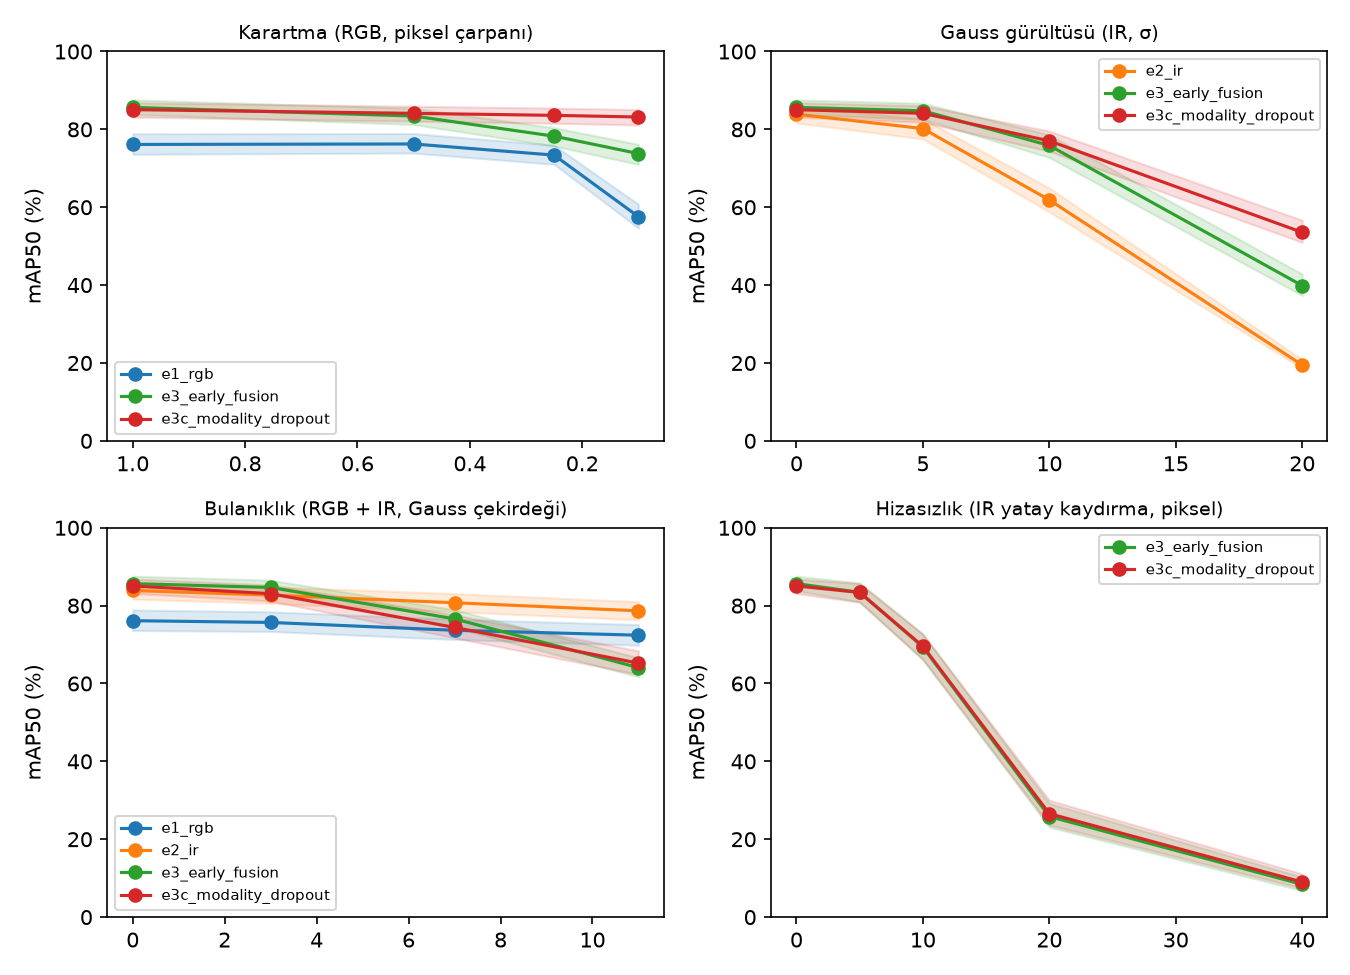
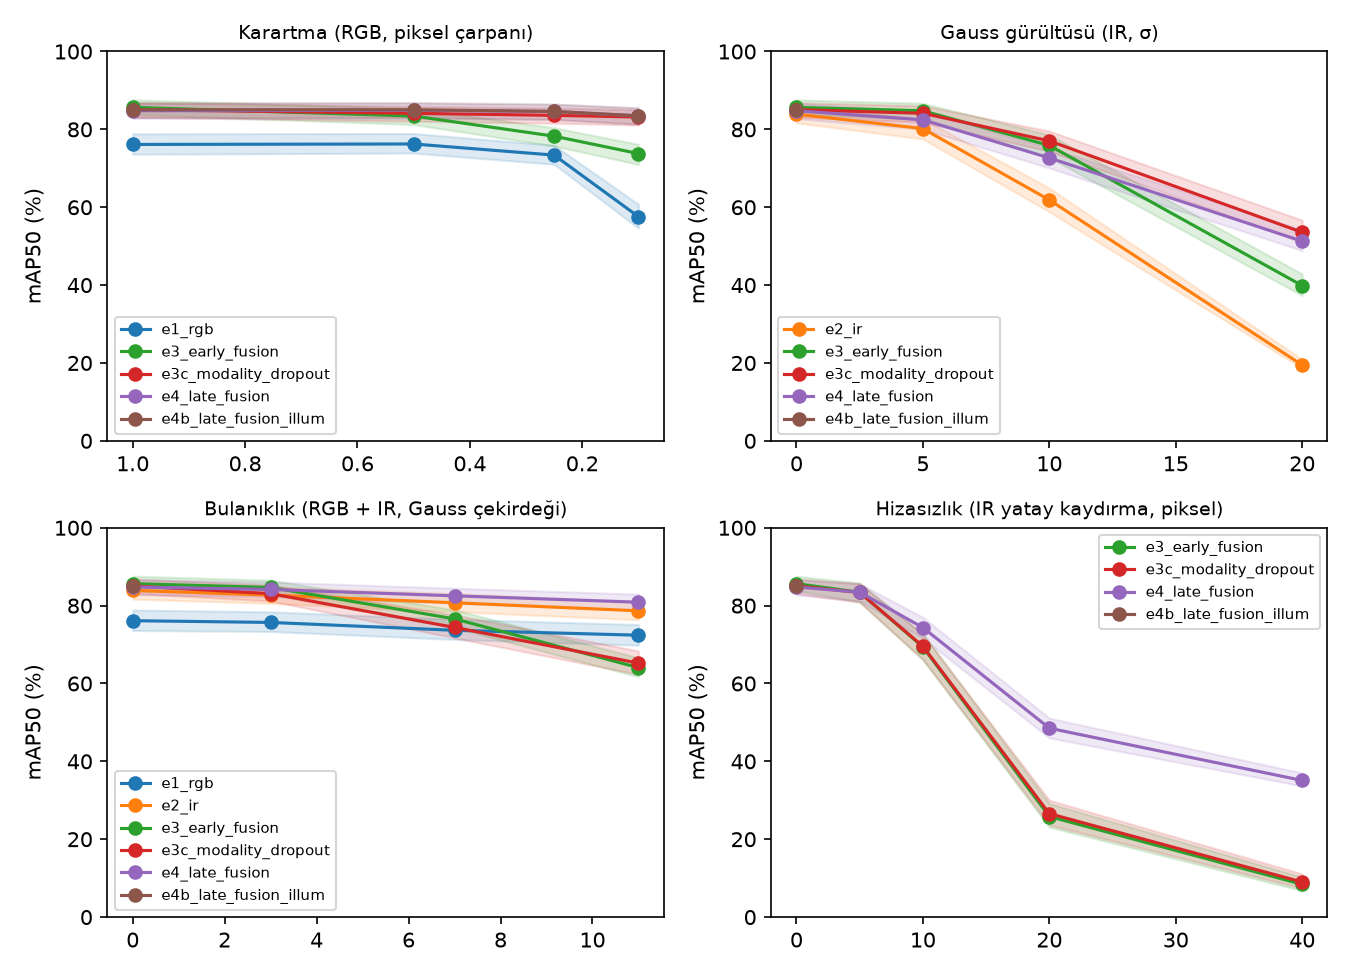
docs: regenerate results with E3c, E4, E4b and E7

diff --git a/docs/robustness.md b/docs/robustness.md
@@ -7,47 +7,47 @@
 
 ## Karartma (RGB, piksel çarpanı)
 
-| Şiddet | e1_rgb | e2_ir | e3_early_fusion | e3c_modality_dropout |
-|---|---|---|---|---|
-| 1 (temiz) | 76.1 [73.6, 78.9] | 83.9 [81.7, 85.9] | 85.7 [83.8, 87.6] | 85.1 [83.1, 86.9] |
-| 0.5 | 76.2 [73.9, 78.9] | uygulanmaz | 83.4 [81.2, 85.4] | 84.1 [82.1, 85.9] |
-| 0.25 | 73.4 [71.0, 75.9] | uygulanmaz | 78.2 [75.7, 80.4] | 83.6 [81.6, 85.5] |
-| 0.1 | 57.6 [54.6, 60.8] | uygulanmaz | 73.8 [71.0, 76.2] | 83.2 [81.1, 85.1] |
+| Şiddet | e1_rgb | e2_ir | e3_early_fusion | e3c_modality_dropout | e4_late_fusion | e4b_late_fusion_illum |
+|---|---|---|---|---|---|---|
+| 1 (temiz) | 76.1 [73.6, 78.9] | 83.9 [81.7, 85.9] | 85.7 [83.8, 87.6] | 85.1 [83.1, 86.9] | 84.8 [82.8, 86.7] | 85.0 [83.1, 86.9] |
+| 0.5 | 76.2 [73.9, 78.9] | uygulanmaz | 83.4 [81.2, 85.4] | 84.1 [82.1, 85.9] | 84.9 [82.8, 86.8] | 85.0 [83.0, 86.9] |
+| 0.25 | 73.4 [71.0, 75.9] | uygulanmaz | 78.2 [75.7, 80.4] | 83.6 [81.6, 85.5] | 84.6 [82.5, 86.5] | 84.6 [82.5, 86.5] |
+| 0.1 | 57.6 [54.6, 60.8] | uygulanmaz | 73.8 [71.0, 76.2] | 83.2 [81.1, 85.1] | 83.5 [81.3, 85.5] | 83.5 [81.3, 85.5] |
 
 ## Gauss gürültüsü (IR, σ)
 
-| Şiddet | e1_rgb | e2_ir | e3_early_fusion | e3c_modality_dropout |
-|---|---|---|---|---|
-| 0 (temiz) | 76.1 [73.6, 78.9] | 83.9 [81.7, 85.9] | 85.7 [83.8, 87.6] | 85.1 [83.1, 86.9] |
-| 5 | uygulanmaz | 80.2 [77.5, 82.7] | 84.8 [82.6, 86.7] | 84.1 [81.8, 86.1] |
-| 10 | uygulanmaz | 61.9 [58.8, 64.9] | 75.9 [72.8, 78.6] | 77.0 [74.4, 79.6] |
-| 20 | uygulanmaz | 19.5 [18.6, 20.9] | 39.9 [37.3, 42.9] | 53.5 [51.0, 56.7] |
+| Şiddet | e1_rgb | e2_ir | e3_early_fusion | e3c_modality_dropout | e4_late_fusion | e4b_late_fusion_illum |
+|---|---|---|---|---|---|---|
+| 0 (temiz) | 76.1 [73.6, 78.9] | 83.9 [81.7, 85.9] | 85.7 [83.8, 87.6] | 85.1 [83.1, 86.9] | 84.8 [82.8, 86.7] | 85.0 [83.1, 86.9] |
+| 5 | uygulanmaz | 80.2 [77.5, 82.7] | 84.8 [82.6, 86.7] | 84.1 [81.8, 86.1] | 82.4 [80.0, 84.6] | — |
+| 10 | uygulanmaz | 61.9 [58.8, 64.9] | 75.9 [72.8, 78.6] | 77.0 [74.4, 79.6] | 72.7 [70.1, 75.2] | — |
+| 20 | uygulanmaz | 19.5 [18.6, 20.9] | 39.9 [37.3, 42.9] | 53.5 [51.0, 56.7] | 51.3 [48.9, 54.2] | — |
 
 ## Bulanıklık (RGB + IR, Gauss çekirdeği)
 
-| Şiddet | e1_rgb | e2_ir | e3_early_fusion | e3c_modality_dropout |
-|---|---|---|---|---|
-| 0 (temiz) | 76.1 [73.6, 78.9] | 83.9 [81.7, 85.9] | 85.7 [83.8, 87.6] | 85.1 [83.1, 86.9] |
-| 3 | 75.7 [73.4, 78.4] | 82.7 [80.6, 84.8] | 84.7 [82.9, 86.5] | 83.1 [81.2, 85.3] |
-| 7 | 73.7 [71.3, 76.5] | 80.7 [78.4, 83.1] | 76.6 [74.3, 78.9] | 74.4 [71.7, 77.6] |
-| 11 | 72.4 [69.8, 75.1] | 78.7 [76.4, 81.0] | 64.1 [61.7, 66.6] | 65.2 [62.3, 68.4] |
+| Şiddet | e1_rgb | e2_ir | e3_early_fusion | e3c_modality_dropout | e4_late_fusion | e4b_late_fusion_illum |
+|---|---|---|---|---|---|---|
+| 0 (temiz) | 76.1 [73.6, 78.9] | 83.9 [81.7, 85.9] | 85.7 [83.8, 87.6] | 85.1 [83.1, 86.9] | 84.8 [82.8, 86.7] | 85.0 [83.1, 86.9] |
+| 3 | 75.7 [73.4, 78.4] | 82.7 [80.6, 84.8] | 84.7 [82.9, 86.5] | 83.1 [81.2, 85.3] | 84.2 [82.3, 86.1] | — |
+| 7 | 73.7 [71.3, 76.5] | 80.7 [78.4, 83.1] | 76.6 [74.3, 78.9] | 74.4 [71.7, 77.6] | 82.5 [80.6, 84.5] | — |
+| 11 | 72.4 [69.8, 75.1] | 78.7 [76.4, 81.0] | 64.1 [61.7, 66.6] | 65.2 [62.3, 68.4] | 80.9 [78.8, 82.9] | — |
 
 ## Hizasızlık (IR yatay kaydırma, piksel)
 
-| Şiddet | e1_rgb | e2_ir | e3_early_fusion | e3c_modality_dropout |
-|---|---|---|---|---|
-| 0 (temiz) | 76.1 [73.6, 78.9] | 83.9 [81.7, 85.9] | 85.7 [83.8, 87.6] | 85.1 [83.1, 86.9] |
-| 5 | uygulanmaz | uygulanmaz | 83.4 [81.0, 85.8] | 83.4 [80.8, 85.7] |
-| 10 | uygulanmaz | uygulanmaz | 69.4 [66.1, 72.8] | 69.6 [66.2, 72.6] |
-| 20 | uygulanmaz | uygulanmaz | 25.8 [23.1, 29.2] | 26.6 [23.7, 30.0] |
-| 40 | uygulanmaz | uygulanmaz | 8.4 [6.8, 10.3] | 9.0 [7.4, 11.1] |
+| Şiddet | e1_rgb | e2_ir | e3_early_fusion | e3c_modality_dropout | e4_late_fusion | e4b_late_fusion_illum |
+|---|---|---|---|---|---|---|
+| 0 (temiz) | 76.1 [73.6, 78.9] | 83.9 [81.7, 85.9] | 85.7 [83.8, 87.6] | 85.1 [83.1, 86.9] | 84.8 [82.8, 86.7] | 85.0 [83.1, 86.9] |
+| 5 | uygulanmaz | uygulanmaz | 83.4 [81.0, 85.8] | 83.4 [80.8, 85.7] | 83.4 [81.2, 85.6] | — |
+| 10 | uygulanmaz | uygulanmaz | 69.4 [66.1, 72.8] | 69.6 [66.2, 72.6] | 74.4 [71.6, 77.0] | — |
+| 20 | uygulanmaz | uygulanmaz | 25.8 [23.1, 29.2] | 26.6 [23.7, 30.0] | 48.5 [46.0, 51.1] | — |
+| 40 | uygulanmaz | uygulanmaz | 8.4 [6.8, 10.3] | 9.0 [7.4, 11.1] | 35.1 [33.7, 37.0] | — |
 
 ## Kamera kaybı
 
-| Koşul | e1_rgb | e2_ir | e3_early_fusion | e3c_modality_dropout |
-|---|---|---|---|---|
-| Temiz | 76.1 [73.6, 78.9] | 83.9 [81.7, 85.9] | 85.7 [83.8, 87.6] | 85.1 [83.1, 86.9] |
-| RGB kaybı | 0.0 [0.0, 0.0] | uygulanmaz | 71.8 [68.8, 74.3] | 82.9 [80.8, 84.8] |
-| IR kaybı | uygulanmaz | 0.0 [0.0, 0.0] | 12.8 [11.6, 14.3] | 72.0 [69.5, 74.8] |
+| Koşul | e1_rgb | e2_ir | e3_early_fusion | e3c_modality_dropout | e4_late_fusion | e4b_late_fusion_illum |
+|---|---|---|---|---|---|---|
+| Temiz | 76.1 [73.6, 78.9] | 83.9 [81.7, 85.9] | 85.7 [83.8, 87.6] | 85.1 [83.1, 86.9] | 84.8 [82.8, 86.7] | 85.0 [83.1, 86.9] |
+| RGB kaybı | 0.0 [0.0, 0.0] | uygulanmaz | 71.8 [68.8, 74.3] | 82.9 [80.8, 84.8] | 83.9 [81.7, 85.9] | — |
+| IR kaybı | uygulanmaz | 0.0 [0.0, 0.0] | 12.8 [11.6, 14.3] | 72.0 [69.5, 74.8] | 76.1 [73.6, 78.9] | — |
 
 ![Sağlamlık eğrileri](figures/results/robustness.png)

diff --git a/docs/results.md b/docs/results.md
@@ -9,6 +9,8 @@
 | 2026-10-14_e2-ir_s_02c4098 | ir | val | ir | 83.9 [81.7, 85.9] | 62.2 | 82.4 | 80.3 | 87.1 |
 | 2026-10-14_e3-early-fusion_s_67ace37 | early_fusion | val | ir | 85.7 [83.8, 87.6] | 64.5 | 86.7 | 79.2 | 87.3 |
 | 2026-10-15_e3c-modality-dropout_s_d4e1280 | early_fusion | val | ir | 85.1 [83.1, 86.9] | 63.8 | 86.0 | 80.2 | 86.7 |
+| 2026-10-16_e4-late-fusion_s_b346199 | late_fusion | val | ir | 84.8 [82.8, 86.7] | 62.9 | 85.3 | 81.1 | 86.5 |
+| 2026-10-16_e4b-late-fusion-illum_s_b346199 | late_fusion | val | ir | 85.0 [83.1, 86.9] | 62.9 | 85.7 | 81.2 | 86.5 |
 
 ![Aydınlatma kırılımı](figures/results/illumination.png)
 
@@ -22,6 +24,8 @@
 | 2026-10-14_e2-ir_s_02c4098 | ir | 83.9 [81.7, 85.9] | 72.9 [70.4, 76.0] | -11.0 | -2.3 | -2.7 | -19.8 |
 | 2026-10-14_e3-early-fusion_s_67ace37 | early_fusion | 85.7 [83.8, 87.6] | 75.8 [73.6, 78.7] | -9.8 | -2.8 | -2.2 | -18.0 |
 | 2026-10-15_e3c-modality-dropout_s_d4e1280 | early_fusion | 85.1 [83.1, 86.9] | 75.9 [73.6, 78.6] | -9.2 | -2.0 | -2.2 | -17.8 |
+| 2026-10-16_e4-late-fusion_s_b346199 | late_fusion | 84.8 [82.8, 86.7] | 79.9 [77.8, 82.3] | -4.8 | -0.6 | -0.9 | -11.6 |
+| 2026-10-16_e4b-late-fusion-illum_s_b346199 | late_fusion | 85.0 [83.1, 86.9] | 80.2 [78.1, 82.6] | -4.8 | -0.1 | -0.8 | -11.6 |
 
 ## Eşleştirilmiş farklar
 
@@ -32,3 +36,28 @@
 | e2_ir-vs-e1_rgb_val_ir | +7.8 [+5.4, +9.9] * | +0.6 [-1.6, +2.8] | +4.3 [+0.8, +8.5] * | +16.3 [+12.8, +20.3] * |
 | e3_early_fusion-vs-e1_rgb_val_ir | +9.5 [+7.3, +11.7] * | +4.9 [+2.9, +7.0] * | +3.2 [-0.2, +7.9] | +16.5 [+13.2, +20.2] * |
 | e3_early_fusion-vs-e2_ir_val_ir | +1.8 [+0.8, +2.8] * | +4.3 [+2.5, +6.3] * | -1.1 [-2.6, +0.8] | +0.1 [-1.3, +1.4] |
+| e3c_modality_dropout-vs-e3_early_fusion_val_camloss_ir | +35.1 [+33.1, +37.1] * | +42.2 [+39.4, +45.1] * | +32.7 [+29.0, +35.9] * | +29.6 [+27.4, +31.6] * |
+| e3c_modality_dropout-vs-e3_early_fusion_val_drop_ir_ir | +59.1 [+56.4, +61.9] * | +57.3 [+54.0, +60.9] * | +58.0 [+52.3, +63.0] * | +60.5 [+56.0, +64.5] * |
+| e3c_modality_dropout-vs-e3_early_fusion_val_drop_rgb_ir | +11.1 [+8.9, +13.5] * | +27.0 [+23.5, +30.6] * | +7.3 [+4.5, +10.0] * | -1.3 [-2.7, +0.5] |
+| e3c_modality_dropout-vs-e3_early_fusion_val_ir | -0.6 [-1.6, +0.4] | -0.7 [-2.0, +0.5] | +0.9 [-0.7, +2.1] | -0.6 [-2.1, +1.0] |
+| e4_late_fusion-vs-e2_ir_val_ir | +0.9 [+0.2, +1.6] * | +2.9 [+1.8, +4.0] * | +0.8 [-0.0, +1.5] | -0.7 [-1.4, +0.0] |
+| e4_late_fusion-vs-e3_early_fusion_val_camloss_ir | +37.7 [+35.7, +39.8] * | +43.4 [+40.5, +46.5] * | +36.4 [+32.6, +39.4] * | +33.1 [+30.6, +35.3] * |
+| e4_late_fusion-vs-e3_early_fusion_val_drop_ir_ir | +63.3 [+60.3, +66.3] * | +58.2 [+54.7, +62.0] * | +63.4 [+57.1, +68.6] * | +66.9 [+62.1, +70.8] * |
+| e4_late_fusion-vs-e3_early_fusion_val_drop_rgb_ir | +12.1 [+10.0, +14.7] * | +28.6 [+25.0, +32.3] * | +9.4 [+6.1, +12.6] * | -0.8 [-2.3, +1.1] |
+| e4_late_fusion-vs-e3_early_fusion_val_ir | -0.9 [-1.8, +0.0] | -1.4 [-2.8, -0.3] * | +1.9 [+0.0, +3.3] * | -0.8 [-2.2, +0.6] |
+| e4_late_fusion-vs-e3c_modality_dropout_val_camloss_ir | +2.6 [+1.8, +3.4] * | +1.2 [+0.2, +2.2] * | +3.7 [+2.3, +5.1] * | +3.5 [+2.0, +4.9] * |
+| e4_late_fusion-vs-e3c_modality_dropout_val_drop_ir_ir | +4.2 [+2.7, +5.6] * | +0.9 [-0.6, +2.3] | +5.4 [+2.8, +8.0] * | +6.5 [+3.7, +9.2] * |
+| e4_late_fusion-vs-e3c_modality_dropout_val_drop_rgb_ir | +1.0 [+0.1, +2.0] * | +1.6 [+0.3, +3.0] * | +2.0 [+0.5, +3.6] * | +0.5 [-1.0, +1.8] |
+| e4b_late_fusion_illum-vs-e4_late_fusion_val_ir | +0.3 [+0.1, +0.5] * | +0.3 [-0.2, +0.8] | +0.1 [-0.1, +0.4] | +0.0 [+0.0, +0.0] |
+
+## Veri setleri arası test (E7, M3OT)
+
+> DroneVehicle'da eğitilen modeller M3OT test bölümünde, sınıfsız `vehicle` AP (spec §8.3): rgb RGB etiketiyle, diğer modlar IR etiketiyle. M3OT kutuları çok küçük (< 1024 px²): mutlak değer değil modlar arası sıra yorumlanır.
+
+| Çalıştırma | Mod | Etiket seti | vehicle AP50 [%95 GA] | AP50-95 |
+|---|---|---|---|---|
+| 2026-10-11_e1-rgb_s_49da0cb | rgb | rgb | 85.2 [83.8, 86.6] | 32.8 |
+| 2026-10-14_e2-ir_s_02c4098 | ir | ir | 98.1 [97.3, 98.5] | 57.4 |
+| 2026-10-14_e3-early-fusion_s_67ace37 | early_fusion | ir | 97.1 [96.5, 98.0] | 50.1 |
+| 2026-10-15_e3c-modality-dropout_s_d4e1280 | early_fusion | ir | 88.9 [87.7, 90.2] | 43.3 |
+| 2026-10-16_e4-late-fusion_s_b346199 | late_fusion | ir | 97.1 [96.5, 97.7] | 57.1 |
